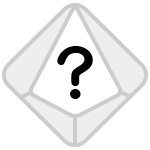
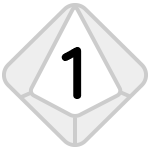
finish day2

Changed region(s): [[0.3733, 0.2933, 0.64, 0.6667]]

diff --git a/day2.html b/day2.html
@@ -2,21 +2,69 @@
 <html>
 <head>
 <meta charset="utf-8">
+<meta name="viewport" content="width=device-width, initial-scale=1">
+<link rel="stylesheet" href="https://maxcdn.bootstrapcdn.com/bootstrap/3.3.7/css/bootstrap.min.css">
+<script src="https://ajax.googleapis.com/ajax/libs/jquery/3.1.1/jquery.min.js"></script>
+<script src="https://maxcdn.bootstrapcdn.com/bootstrap/3.3.7/js/bootstrap.min.js"></script>
+
+<script src="day2.js"></script>
 <link rel="stylesheet" type="text/css" href="day2.css"/>
 <link href="https://fonts.googleapis.com/css?family=Alegreya|Gloria+Hallelujah|Nunito+Sans|Quattrocento" rel="stylesheet">
 <title>TRPG Dice</title>
+
 </head>
 <body>
+
 <div class="top"><h1>Welcome to TRPG Dice</h1></div>
 <div class="intro"><h3>What is TRPG (Tabletop role playing game)?</h3></div>
 <div class="intro">Definition from Wikipedia:
 <blockquote cite="https://en.wikipedia.org/wiki/Tabletop_role-playing_game">A tabletop role-playing game (or pen-and-paper role-playing game) is a form of role-playing game (RPG) in which the participants describe their characters' actions through speech. Participants determine the actions of their characters based on their characterization, and the actions succeed or fail according to a formal system of rules and guidelines. Within the rules, players have the freedom to improvise; their choices shape the direction and outcome of the game.</blockquote></div>
 <div class="intro">Famous TRPGs include "Dungeons & Dragons", "Call of Cthulhu"(my personal favorite), "Paranoia" and etc.</div>
 <div class="intro">In the process of gameplay, dice are used a way to determine if the players action were successful and has a great affect on the direction of the story. This website is a place that has most of the dice that are used. Have fun!</div>
+<br/>
+<div class="intro">Click on dice to roll:</div>
 
-<div class="dice">
-	<img>
+<div class="container-fluid">
+	<div class="row">
+		<div class="col-md-4 dice">
+			<img id="D6" src="img/dice_set/dice_10.png" />
+			<div class="result">1D6 = <div id="result1d6" class="result"></div></div>
+		</div>
+		<div class="col-md-4 dice">
+			<img id="D10" src="img/dice_set/dice_101.png" />
+			<div class="result">1D10 = <div id="result1d10" class="result"></div></div>
+		</div>
+		<div class="col-md-4 dice">
+			<img id="D100_1" src="img/dice_set/dice_101.png" />
+			<img id="D100_2" src="img/dice_set/dice_101.png" /><br/>
+			<div class="result">1D100 = <div id="result1d100" class="result"></div></div>
+		</div>
+	</div>
+	<div class="row">
+		<div class="col-md-4 dice">
+			<img id="D4" src="img/dice_set/dice_10.png" />
+			<div class="result">1D4 = <div id="result1d4" class="result"></div></div>
+		</div>
+		<div class="col-md-4 dice">
+			<img id="D3" src="img/dice_set/dice_10.png" />
+			<div class="result">1D3 = <div id="result1d3" class="result"></div></div>
+		</div>
+		<div class="col-md-4 dice">
+			<img id="D20_1" src="img/dice_set/dice_101.png" />
+			<img id="D20_2" src="img/dice_set/dice_101.png" /><br/>
+			<div class="result">1D20 = <div id="result1d20" class="result"></div></div>
+		</div>
+	</div>
+	<div class="row">
+		<div class="col-md-12 dice">
+			<input type="text" id="in1" value=""> D <input type="text" id="in2" value="">
+			<button id="rollbutton" style="background-color: black;">Roll!</button>
+			= <div id="custom" class="result"></div>
+		</div>
+	</div>
 </div>
 
+<br/>
+<br/>
 </body>
 </html>

diff --git a/day2.js b/day2.js
@@ -1,0 +1,105 @@
+$(function(){
+
+	//1D6
+    $('#D6').on({
+    'click': function(){
+    	var num = Math.floor(Math.random()*6+1);
+        $('#D6').attr('src','img/dice_set/dice_1'+num+'.png');
+        $('#result1d6').text(num);
+    }
+	});
+
+   	//1D10
+   	$('#D10').on({
+    'click': function(){
+    	var num = Math.floor(Math.random()*10);
+        $('#D10').attr('src','img/dice_set/dice_0'+num+'.png');
+        if(num==0){
+        	$('#result1d10').text('10');
+        }
+        else{
+        	$('#result1d10').text(num);
+        }
+    }
+	});
+
+   	//1D100
+   	$('#D100_1').on({
+    'click': function(){
+    	var num = Math.floor(Math.random()*100);
+        $('#D100_1').attr('src','img/dice_set/dice_0'+Math.floor(num/10)+'.png');
+        $('#D100_2').attr('src','img/dice_set/dice_0'+Math.floor(num%10)+'.png');
+        if(num==0){
+        	$('#result1d100').text('100');
+        }
+        else{
+        	$('#result1d100').text(num);
+        }
+    }
+	});
+
+	$('#D100_2').on({
+    'click': function(){
+    	var num = Math.floor(Math.random()*100);
+        $('#D100_1').attr('src','img/dice_set/dice_0'+Math.floor(num/10)+'.png');
+        $('#D100_2').attr('src','img/dice_set/dice_0'+Math.floor(num%10)+'.png');
+        if(num==0){
+        	$('#result1d100').text('100');
+        }
+        else{
+        	$('#result1d100').text(num);
+        }
+    }
+	});
+   
+	//1D4
+	$('#D4').on({
+    'click': function(){
+    	var num = Math.floor(Math.random()*4+1);
+        $('#D4').attr('src','img/dice_set/dice_1'+num+'.png');
+        $('#result1d4').text(num);
+    }
+	});
+
+	//1D3
+	$('#D3').on({
+    'click': function(){
+    	var num = Math.floor(Math.random()*3+1);
+        $('#D3').attr('src','img/dice_set/dice_1'+num+'.png');
+        $('#result1d3').text(num);
+    }
+	});
+
+	//1D20
+	$('#D20_1').on({
+    'click': function(){
+    	var num = Math.floor(Math.random()*20+1);
+        $('#D20_1').attr('src','img/dice_set/dice_0'+Math.floor(num/10)+'.png');
+        $('#D20_2').attr('src','img/dice_set/dice_0'+Math.floor(num%10)+'.png');
+        $('#result1d20').text(num);
+    }
+	});
+
+	//Custom roll
+	$("#rollbutton").click(function(){
+		if($("#in1").val()==""||$("#in2").val()==""||!$.isNumeric($("#in1").val())||!$.isNumeric($("#in2").val()))
+        alert("Please insert a number");
+    	else{
+    		var total = 0;
+    		var a = Number($("#in1").val());
+    		var b = Number($("#in2").val());
+    		for(i = 0; i < a; i++){
+    			total += Math.floor(Math.random()*b+1);
+    		}
+    		$("#custom").text(total);
+    	}
+    });
+
+});
+
+/* Problems
+
+For 1D3 has less variance, it's hard to see whether the value has changed or not.
+Needs more response for the user to know the dice has been rolled.
+
+*/

diff --git a/day2.css b/day2.css
@@ -4,7 +4,8 @@ body {
   overflow-x: hidden;
   background-attachment: fixed;
   background-repeat: no-repeat;
-  position: absolute; }
+  position: relative;
+  width: 100%; }
 
 .top,
 .intro {
@@ -17,12 +18,29 @@ body {
 .intro {
   font-family: 'Alegreya', serif;
   font-size: 1.5vw;
-  margin: 0 2em; }
+  margin: 0 2em 2em 2em; }
 
 h3 {
   font-size: 2vw; }
 
 blockquote {
   font-family: 'Quattrocento', serif; }
+
+.row {
+  width: 100vw;
+  margin: 2.5em 0; }
+
+.dice {
+  text-align: center;
+  color: #fff;
+  /*width: 150px;
+  padding: 2em;*/
+  font-family: 'Nunito Sans', sans-serif; }
+
+.result {
+  display: inline-block; }
+
+input {
+  color: black; }
 
 /*# sourceMappingURL=day2.css.map */

diff --git a/day2.scss b/day2.scss
@@ -4,7 +4,8 @@ body{
 	overflow-x: hidden;
 	background-attachment: fixed;
 	background-repeat: no-repeat;
-	position: absolute;
+	position: relative;
+	width: 100%;
 }
 
 .top,
@@ -20,7 +21,7 @@ body{
 .intro{
 	font-family: 'Alegreya', serif;
 	font-size: 1.5vw;
-	margin: 0 2em;
+	margin: 0 2em 2em 2em;
 }
 
 h3{
@@ -29,4 +30,25 @@ h3{
 
 blockquote{
 	font-family: 'Quattrocento', serif;
+}
+
+.row{
+	width: 100vw;
+	margin: 2.5em 0;
+}
+
+.dice{
+	text-align: center;
+	color: #fff;
+	/*width: 150px;
+	padding: 2em;*/
+	font-family: 'Nunito Sans', sans-serif;
+}
+
+.result{
+	display: inline-block;
+}
+
+input{
+	color: black;
 }

diff --git a/index.html b/index.html
@@ -52,7 +52,7 @@
 	</div>
 </div>
 <div id="ABOUTME" class="tooltip">
-<a href="https://i112358.github.io/#ABOUT" target="blank"><img src="img/glasses.png" /></a>
+<a href="https://i112358.github.io/#ABOUT" target="_blank"><img src="img/glasses.png" /></a>
 <span class="tooltiptext">About me</span></div>
 	
 </body>
